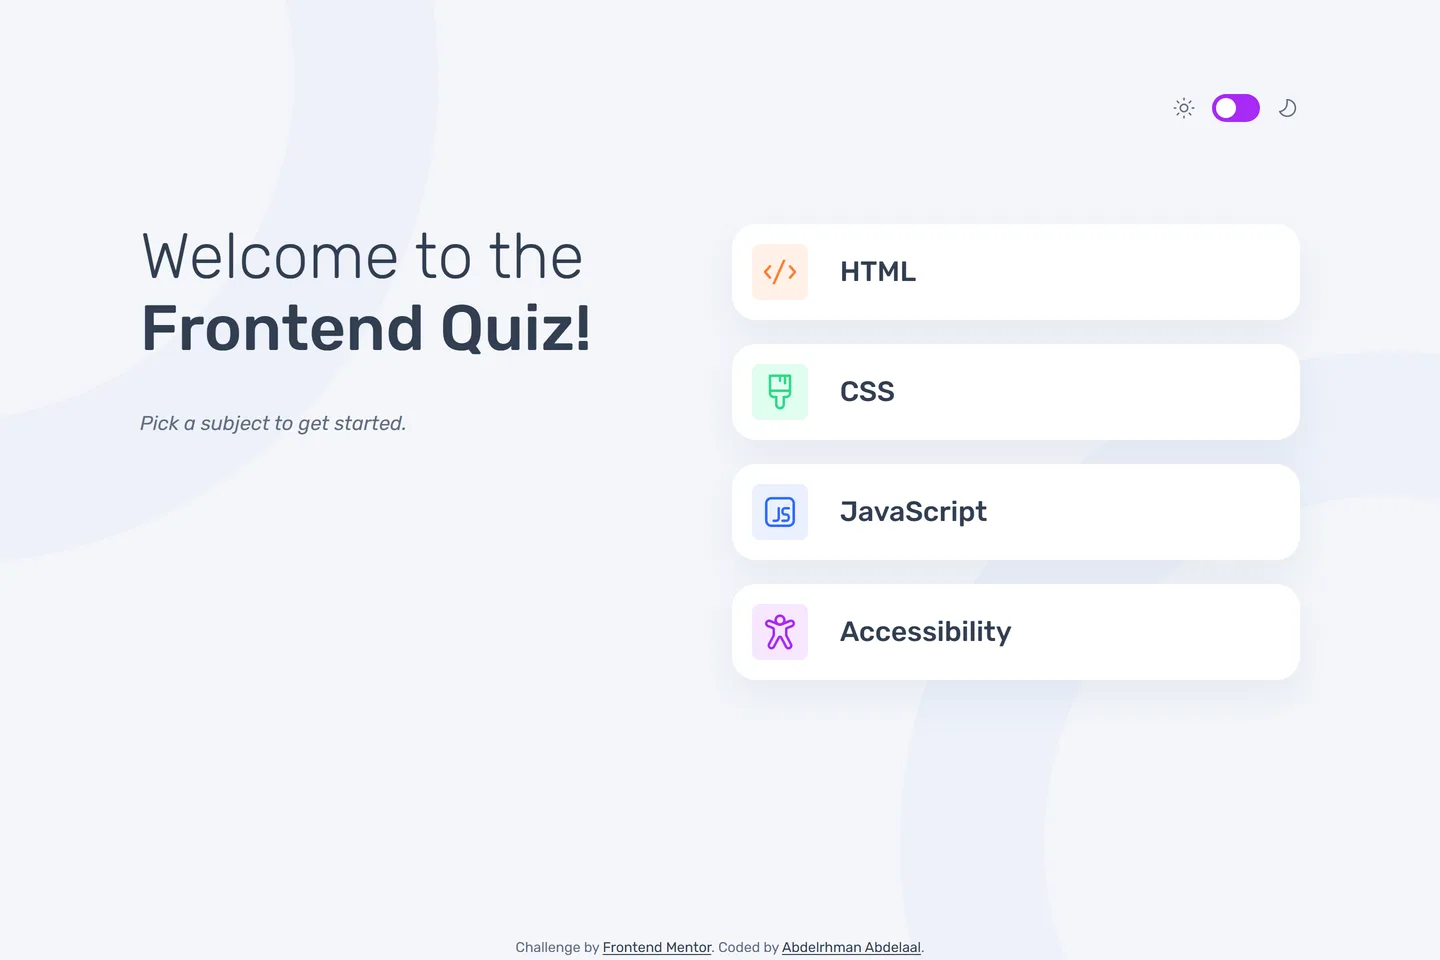
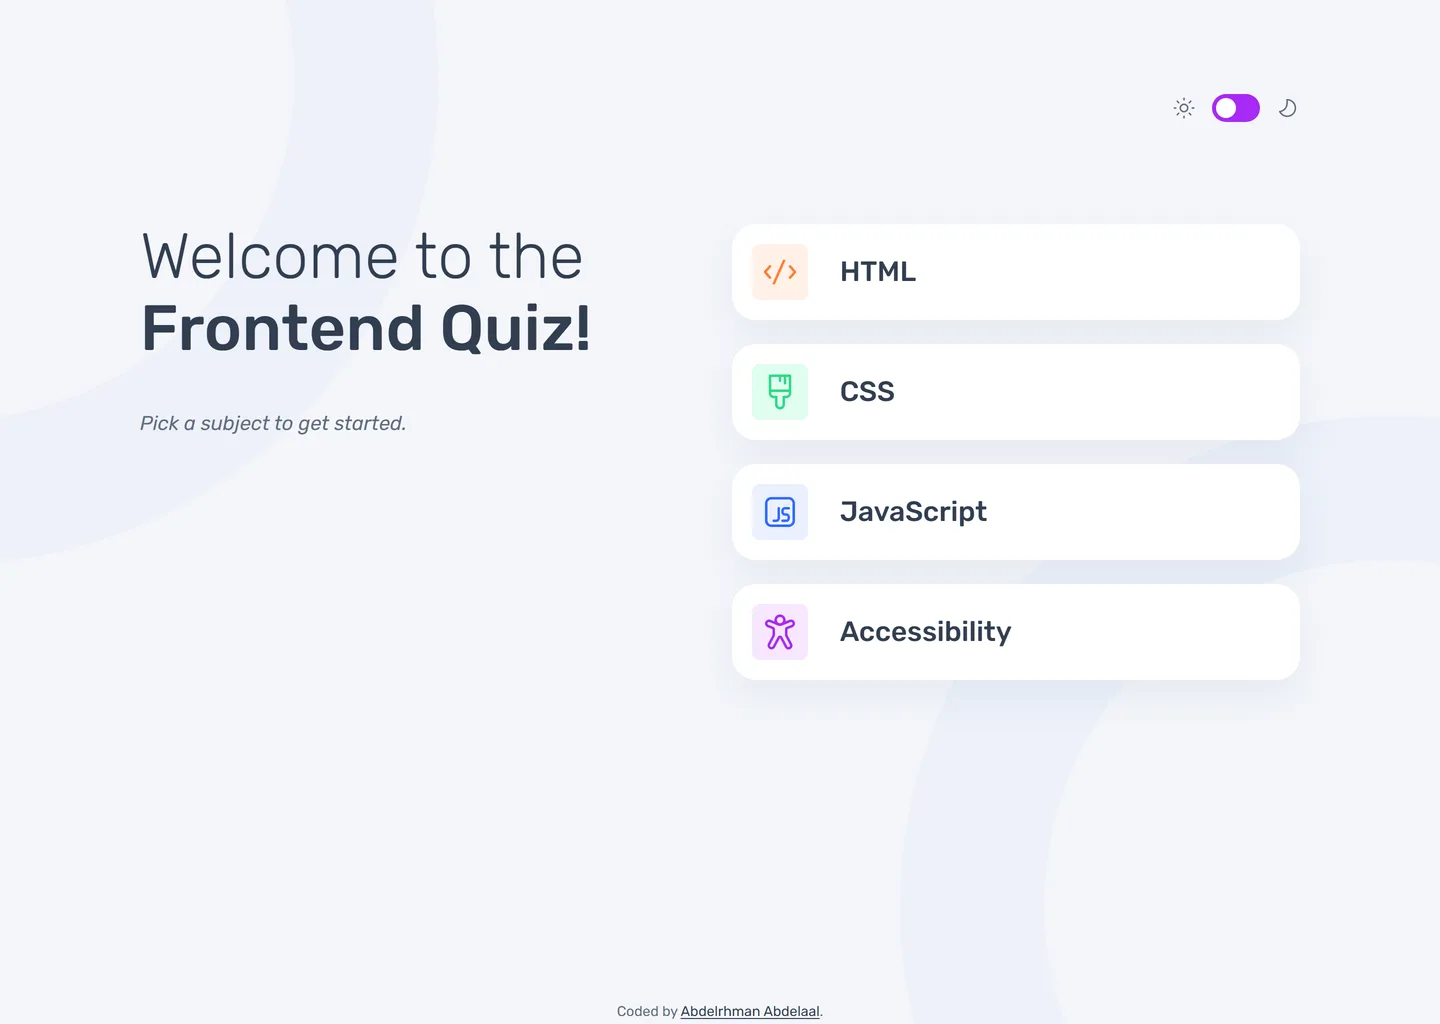
feat: update footer content and remove Frontend Mentor reference; update author link in README

diff --git a/src/components/footer.tsx b/src/components/footer.tsx
@@ -2,16 +2,7 @@ export default function Footer() {
   return (
     <footer className="v-container pt-12 pb-0.5">
       <p className="text-center text-sm text-muted">
-        Challenge by{" "}
-        <a
-          className="v-footer-link"
-          href="https://www.frontendmentor.io?ref=challenge"
-          target="_blank"
-          rel="noopener noreferrer"
-        >
-          Frontend Mentor
-        </a>
-        . Coded by{" "}
+        Coded by{" "}
         <a
           className="v-footer-link"
           href="https://www.linkedin.com/in/abdelrhman-vanta/"

diff --git a/README.md b/README.md
@@ -22,7 +22,6 @@ This is a solution to the [Frontend quiz app challenge on Frontend Mentor](https
 
 - Solution URL: [GitHub](https://github.com/MrBlackvanta/frontend-quiz-app)
 - Live Site URL: [Cloudflare](https://frontend-quiz-app.abdelrhman-ahmed8881.workers.dev)
-- Mirror: [Netlify](https://vanta-frontend-quiz-app.netlify.app)
 
 ## My process
 
@@ -186,6 +185,6 @@ lines.
 
 ## Author
 
-- UpWork - [Abdelrhman Abdelaal](https://upwork.com/freelancers/~01f0a9479696b61f49)
+- UpWork - [Abdelrhman Abdelaal](https://www.upwork.com/freelancers/mrblackvanta)
 - Frontend Mentor - [@MrBlackvanta](https://www.frontendmentor.io/profile/MrBlackvanta)
 - LinkedIn - [Abdelrhman Abdelaal](https://www.linkedin.com/in/abdelrhman-vanta/)
